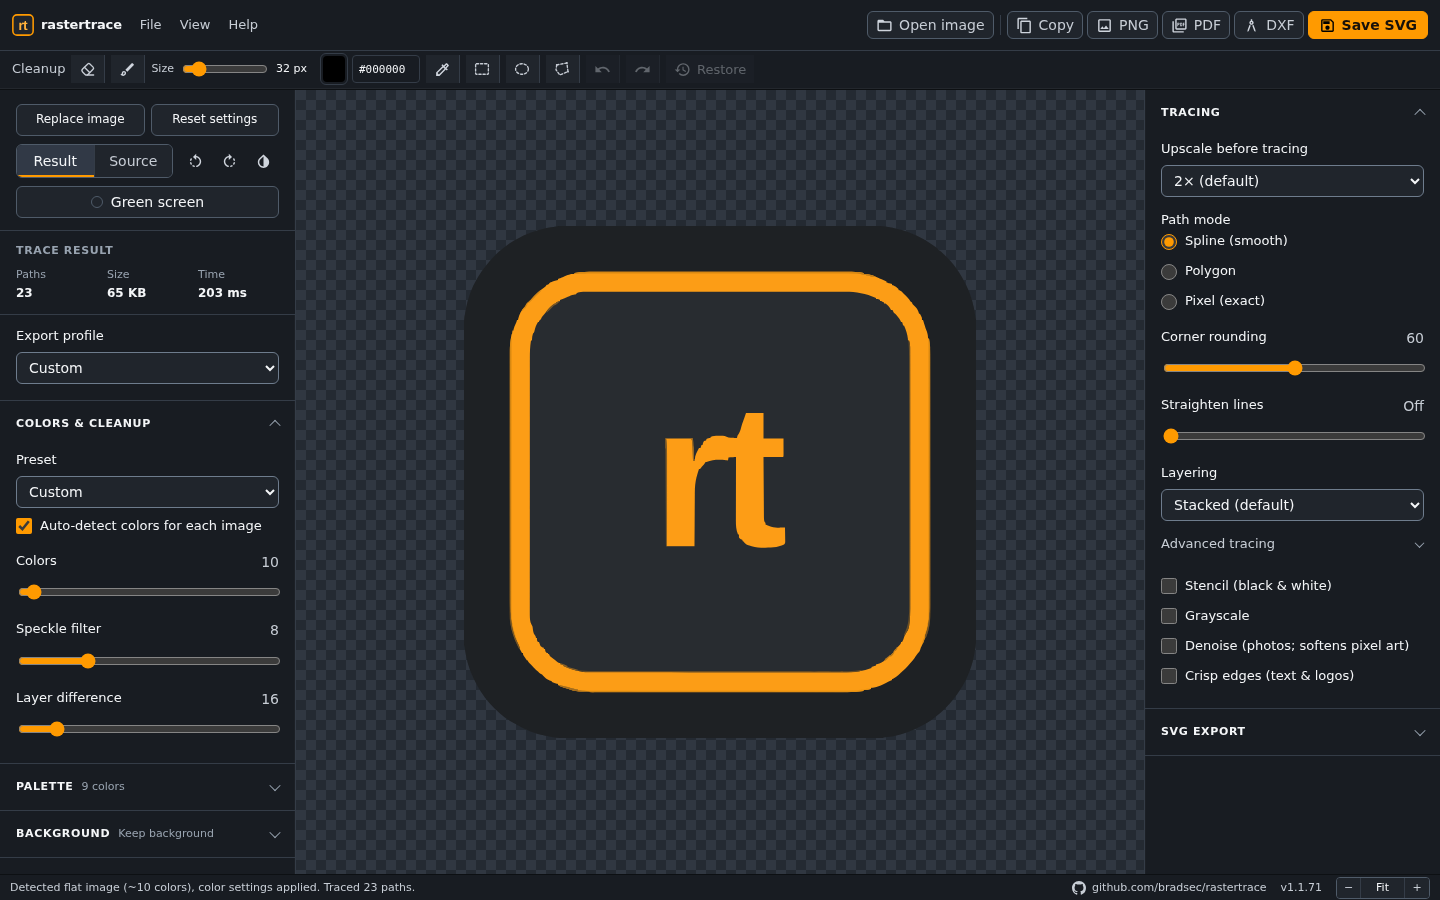
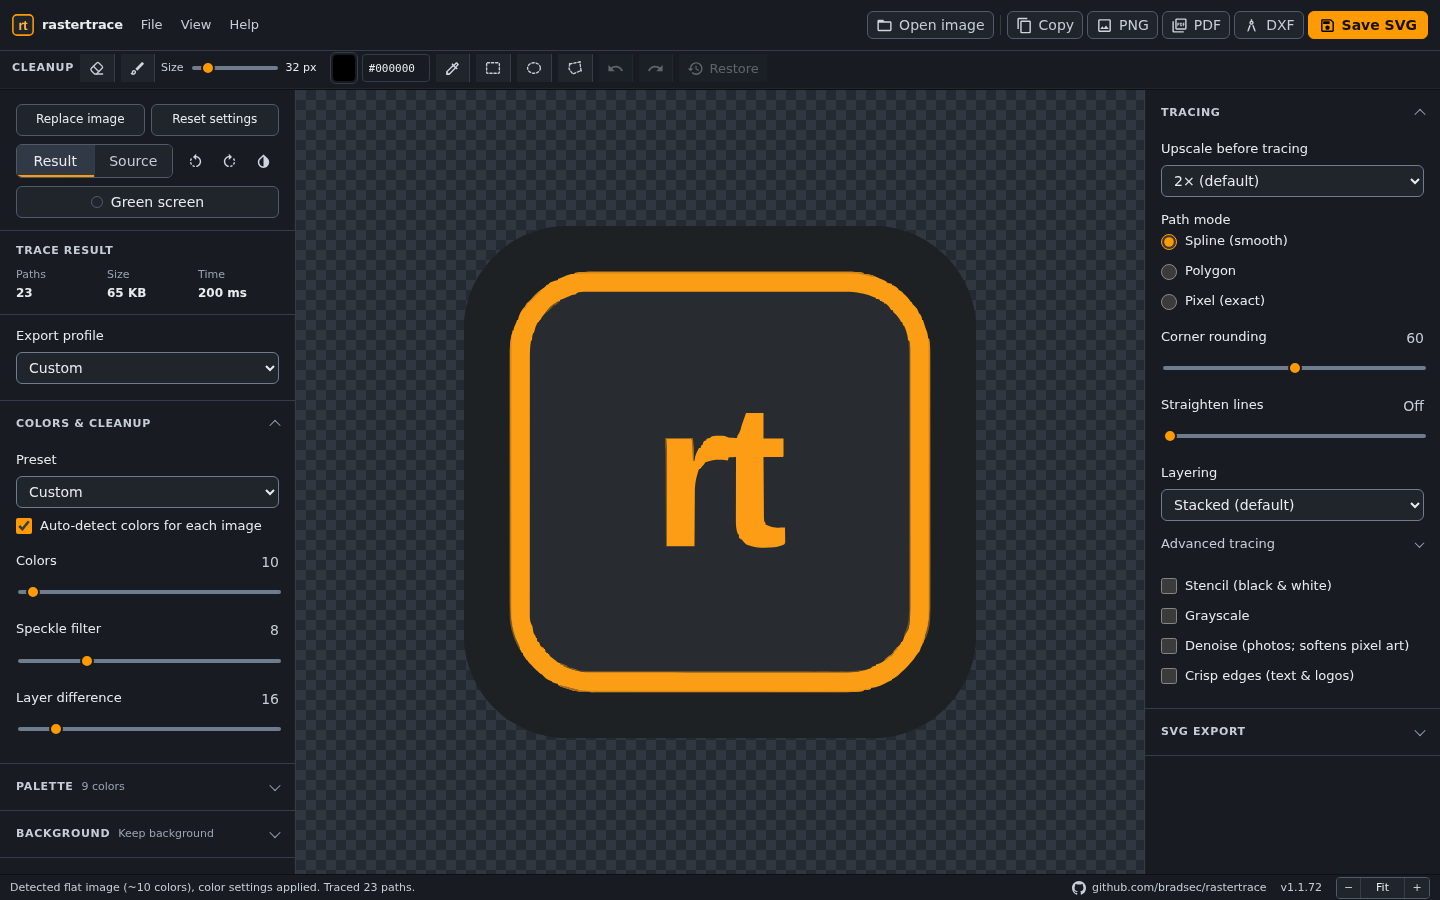
style: neutral menu and panel hover, unified section labels, softer text, 4px spacing grid, and slim sliders

diff --git a/css/styles.css b/css/styles.css
@@ -11,7 +11,7 @@
   /* 3:1 against every surface up to --surface-3 (WCAG 1.4.11). */
   --border-input: #6e7c8d;
   --border-hairline: #0d1013;
-  --text: #f4f6f8;
+  --text: #e9ecef;
   --text-dim: #c7cdd5;
   --text-faint: #98a3b0;
   --accent: #ff9a00;
@@ -137,7 +137,7 @@ body {
 .brand {
   display: inline-flex;
   align-items: center;
-  gap: 7px;
+  gap: 8px;
   min-width: 0;
   margin: 0 8px 0 0;
   color: var(--text);
@@ -182,7 +182,7 @@ body {
   display: grid;
   width: max-content;
   max-width: calc(100vw - 16px);
-  padding: 5px;
+  padding: 4px;
   border: 1px solid var(--border-strong);
   border-radius: var(--r);
   background: var(--surface-3);
@@ -201,7 +201,7 @@ body {
   align-items: center;
   justify-content: space-between;
   gap: 24px;
-  padding: 5px 8px;
+  padding: 4px 8px;
   border: 0;
   border-radius: var(--r-xs);
   background: transparent;
@@ -214,8 +214,8 @@ body {
 }
 .menu-popover button:hover,
 .menu-popover > a:hover {
-  background: var(--accent);
-  color: var(--accent-ink);
+  background: var(--surface-hover);
+  color: var(--text);
 }
 .menu-popover button span {
   min-width: 38px;
@@ -224,7 +224,7 @@ body {
   text-align: right;
 }
 .menu-popover button:hover span {
-  color: var(--accent-ink);
+  color: var(--text-dim);
 }
 .menu-popover button:disabled {
   opacity: var(--disabled-opacity);
@@ -252,7 +252,7 @@ body {
   min-width: 30px;
   height: var(--control-h-sm);
   place-items: center;
-  padding: 0 7px;
+  padding: 0 8px;
   border: 0;
   border-right: 1px solid var(--border);
   background: var(--surface-2);
@@ -416,7 +416,7 @@ body:has(#empty-state:not([hidden])) .eraser-controls {
   justify-content: center;
   gap: 8px;
   min-height: var(--control-h);
-  padding: 0 11px;
+  padding: 0 12px;
   border-radius: var(--r-sm);
   border: 1px solid transparent;
   font: inherit;
@@ -868,9 +868,50 @@ input[type="color"] {
 }
 
 input[type="range"] {
+  appearance: none;
   width: 100%;
-  accent-color: var(--accent);
   min-height: 24px;
+  background: transparent;
+  cursor: pointer;
+}
+input[type="range"]::-webkit-slider-runnable-track {
+  height: 4px;
+  border-radius: 2px;
+  background: var(--border-input);
+}
+input[type="range"]::-moz-range-track,
+input[type="range"]::-moz-range-progress {
+  height: 4px;
+  border-radius: 2px;
+  background: var(--border-input);
+}
+input[type="range"]::-webkit-slider-thumb {
+  appearance: none;
+  width: 14px;
+  height: 14px;
+  margin-top: -5px;
+  border: 2px solid var(--surface-1);
+  border-radius: 50%;
+  background: var(--accent);
+  box-sizing: border-box;
+}
+input[type="range"]::-moz-range-thumb {
+  width: 14px;
+  height: 14px;
+  border: 2px solid var(--surface-1);
+  border-radius: 50%;
+  background: var(--accent);
+  box-sizing: border-box;
+}
+input[type="range"]:hover::-webkit-slider-thumb {
+  background: var(--accent-hover);
+}
+input[type="range"]:hover::-moz-range-thumb {
+  background: var(--accent-hover);
+}
+input[type="range"]:disabled {
+  opacity: var(--disabled-opacity);
+  cursor: default;
 }
 input[type="radio"],
 input[type="checkbox"] {
@@ -905,6 +946,8 @@ input[type="checkbox"] {
   text-transform: uppercase;
   border-radius: 0;
   user-select: none;
+  line-height: 16px;
+  color: var(--text-dim);
 }
 
 .panel > summary::-webkit-details-marker {
@@ -942,7 +985,12 @@ details.advanced[open] > summary::after {
 }
 
 .panel > summary:hover {
-  color: var(--accent);
+  color: var(--text);
+}
+
+.panel > summary:hover::after,
+details.advanced > summary:hover::after {
+  color: var(--text-dim);
 }
 
 .panel > summary:focus-visible {
@@ -1080,10 +1128,12 @@ details.advanced[open] {
 
 .guide-dialog-content > h2 {
   margin: 0 0 12px;
-  font-size: 13px;
+  font-size: 11px;
   text-transform: uppercase;
   letter-spacing: 0.06em;
-  color: var(--text-faint);
+  color: var(--text-dim);
+  line-height: 16px;
+  font-weight: 600;
 }
 
 .guide-dialog-content a {
@@ -1139,7 +1189,7 @@ details.advanced[open] {
 .help-grid .support-link {
   display: inline-flex;
   align-items: center;
-  gap: 7px;
+  gap: 8px;
   margin-top: 6px;
   text-decoration: none;
 }
@@ -1217,12 +1267,15 @@ details.advanced[open] {
 
 .eraser-tool-label {
   color: var(--text-dim);
-  font-size: 13px;
-  font-weight: 500;
+  font-size: 11px;
+  font-weight: 600;
+  line-height: 16px;
+  letter-spacing: 0.06em;
+  text-transform: uppercase;
 }
 .eraser-tool {
   min-width: 34px;
-  padding-inline: 7px;
+  padding-inline: 8px;
 }
 
 .eraser-tool[aria-pressed="true"],
@@ -1234,7 +1287,7 @@ details.advanced[open] {
 
 .cleanup-tool {
   min-width: 34px;
-  padding-inline: 7px;
+  padding-inline: 8px;
 }
 .cleanup-tool-icon {
   display: block;
@@ -1288,7 +1341,7 @@ details.advanced[open] {
 .blob-color input[type="text"] {
   width: 68px;
   height: var(--control-h-sm);
-  padding: 3px 6px;
+  padding: 4px 6px;
   border: 1px solid var(--border);
   border-radius: var(--r-xs);
   color: var(--text);
@@ -1550,11 +1603,12 @@ details.advanced[open] {
 
 .trace-summary h2 {
   margin: 0 0 8px;
-  color: var(--text-faint);
+  color: var(--text-dim);
   font-size: 11px;
   font-weight: 600;
   letter-spacing: 0.06em;
   text-transform: uppercase;
+  line-height: 16px;
 }
 
 .trace-summary-stats {
@@ -1607,7 +1661,7 @@ details.advanced[open] {
 .statusbar .status-zoom .header-tool {
   height: 20px;
   min-width: 24px;
-  padding-inline: 5px;
+  padding-inline: 4px;
   font-size: 11px;
 }
 .statusbar .status-zoom .zoom-level {
@@ -1649,7 +1703,7 @@ dialog::backdrop {
 }
 .dialog-form {
   display: grid;
-  gap: 15px;
+  gap: 16px;
   padding: 20px;
   font: 13px/1.4 var(--font-ui);
 }
@@ -1701,7 +1755,7 @@ dialog::backdrop {
   display: flex;
   justify-content: flex-end;
   gap: 8px;
-  margin-top: 3px;
+  margin-top: 4px;
 }
 /* Same look as .button-secondary. */
 .dialog-actions button {
@@ -1755,7 +1809,7 @@ dialog::backdrop {
     justify-self: start;
     width: calc(100% + 24px);
     margin-left: -12px;
-    padding: 5px 12px 7px;
+    padding: 4px 12px 8px;
     overflow-x: auto;
     overflow-y: hidden;
     justify-content: flex-start;
@@ -1778,10 +1832,10 @@ dialog::backdrop {
     display: none;
   }
   .topbar-actions {
-    gap: 3px;
+    gap: 4px;
   }
   .export-actions {
-    gap: 3px;
+    gap: 4px;
   }
   .header-action,
   .primary-action {
@@ -1908,7 +1962,7 @@ dialog::backdrop {
     min-width: 52px;
   }
   .app-menu summary {
-    padding-inline: 7px;
+    padding-inline: 8px;
   }
 
   main {
@@ -1986,6 +2040,15 @@ dialog::backdrop {
 /* 44px targets for coarse pointers (Apple HIG; WCAG 2.5.8's floor is
    24px). Width breakpoints alone gave landscape tablets desktop sizes. */
 @media (pointer: coarse) {
+  input[type="range"]::-webkit-slider-thumb {
+    width: 22px;
+    height: 22px;
+    margin-top: -9px;
+  }
+  input[type="range"]::-moz-range-thumb {
+    width: 22px;
+    height: 22px;
+  }
   .drop-copy {
     display: none;
   }
@@ -2091,6 +2154,26 @@ dialog::backdrop {
 /* Box shadows are removed in forced colors, so focus and pressed states
    that rely on them need an outline or system colors instead. */
 @media (forced-colors: active) {
+  input[type="range"] {
+    forced-color-adjust: none;
+  }
+  input[type="range"]::-webkit-slider-runnable-track {
+    background: CanvasText;
+  }
+  input[type="range"]::-moz-range-track,
+  input[type="range"]::-moz-range-progress {
+    background: CanvasText;
+  }
+  input[type="range"]::-webkit-slider-thumb,
+  input[type="range"]:hover::-webkit-slider-thumb {
+    background: Highlight;
+    border-color: Canvas;
+  }
+  input[type="range"]::-moz-range-thumb,
+  input[type="range"]:hover::-moz-range-thumb {
+    background: Highlight;
+    border-color: Canvas;
+  }
   /* Overrides the per-component outline: none rules. */
   :focus-visible {
     outline: 2px solid Highlight !important;

diff --git a/index.html b/index.html
@@ -53,7 +53,7 @@
       }
     </script>
 
-    <link rel="stylesheet" href="css/styles.css?v=77" />
+    <link rel="stylesheet" href="css/styles.css?v=78" />
   </head>
   <body>
     <header class="app-header">
